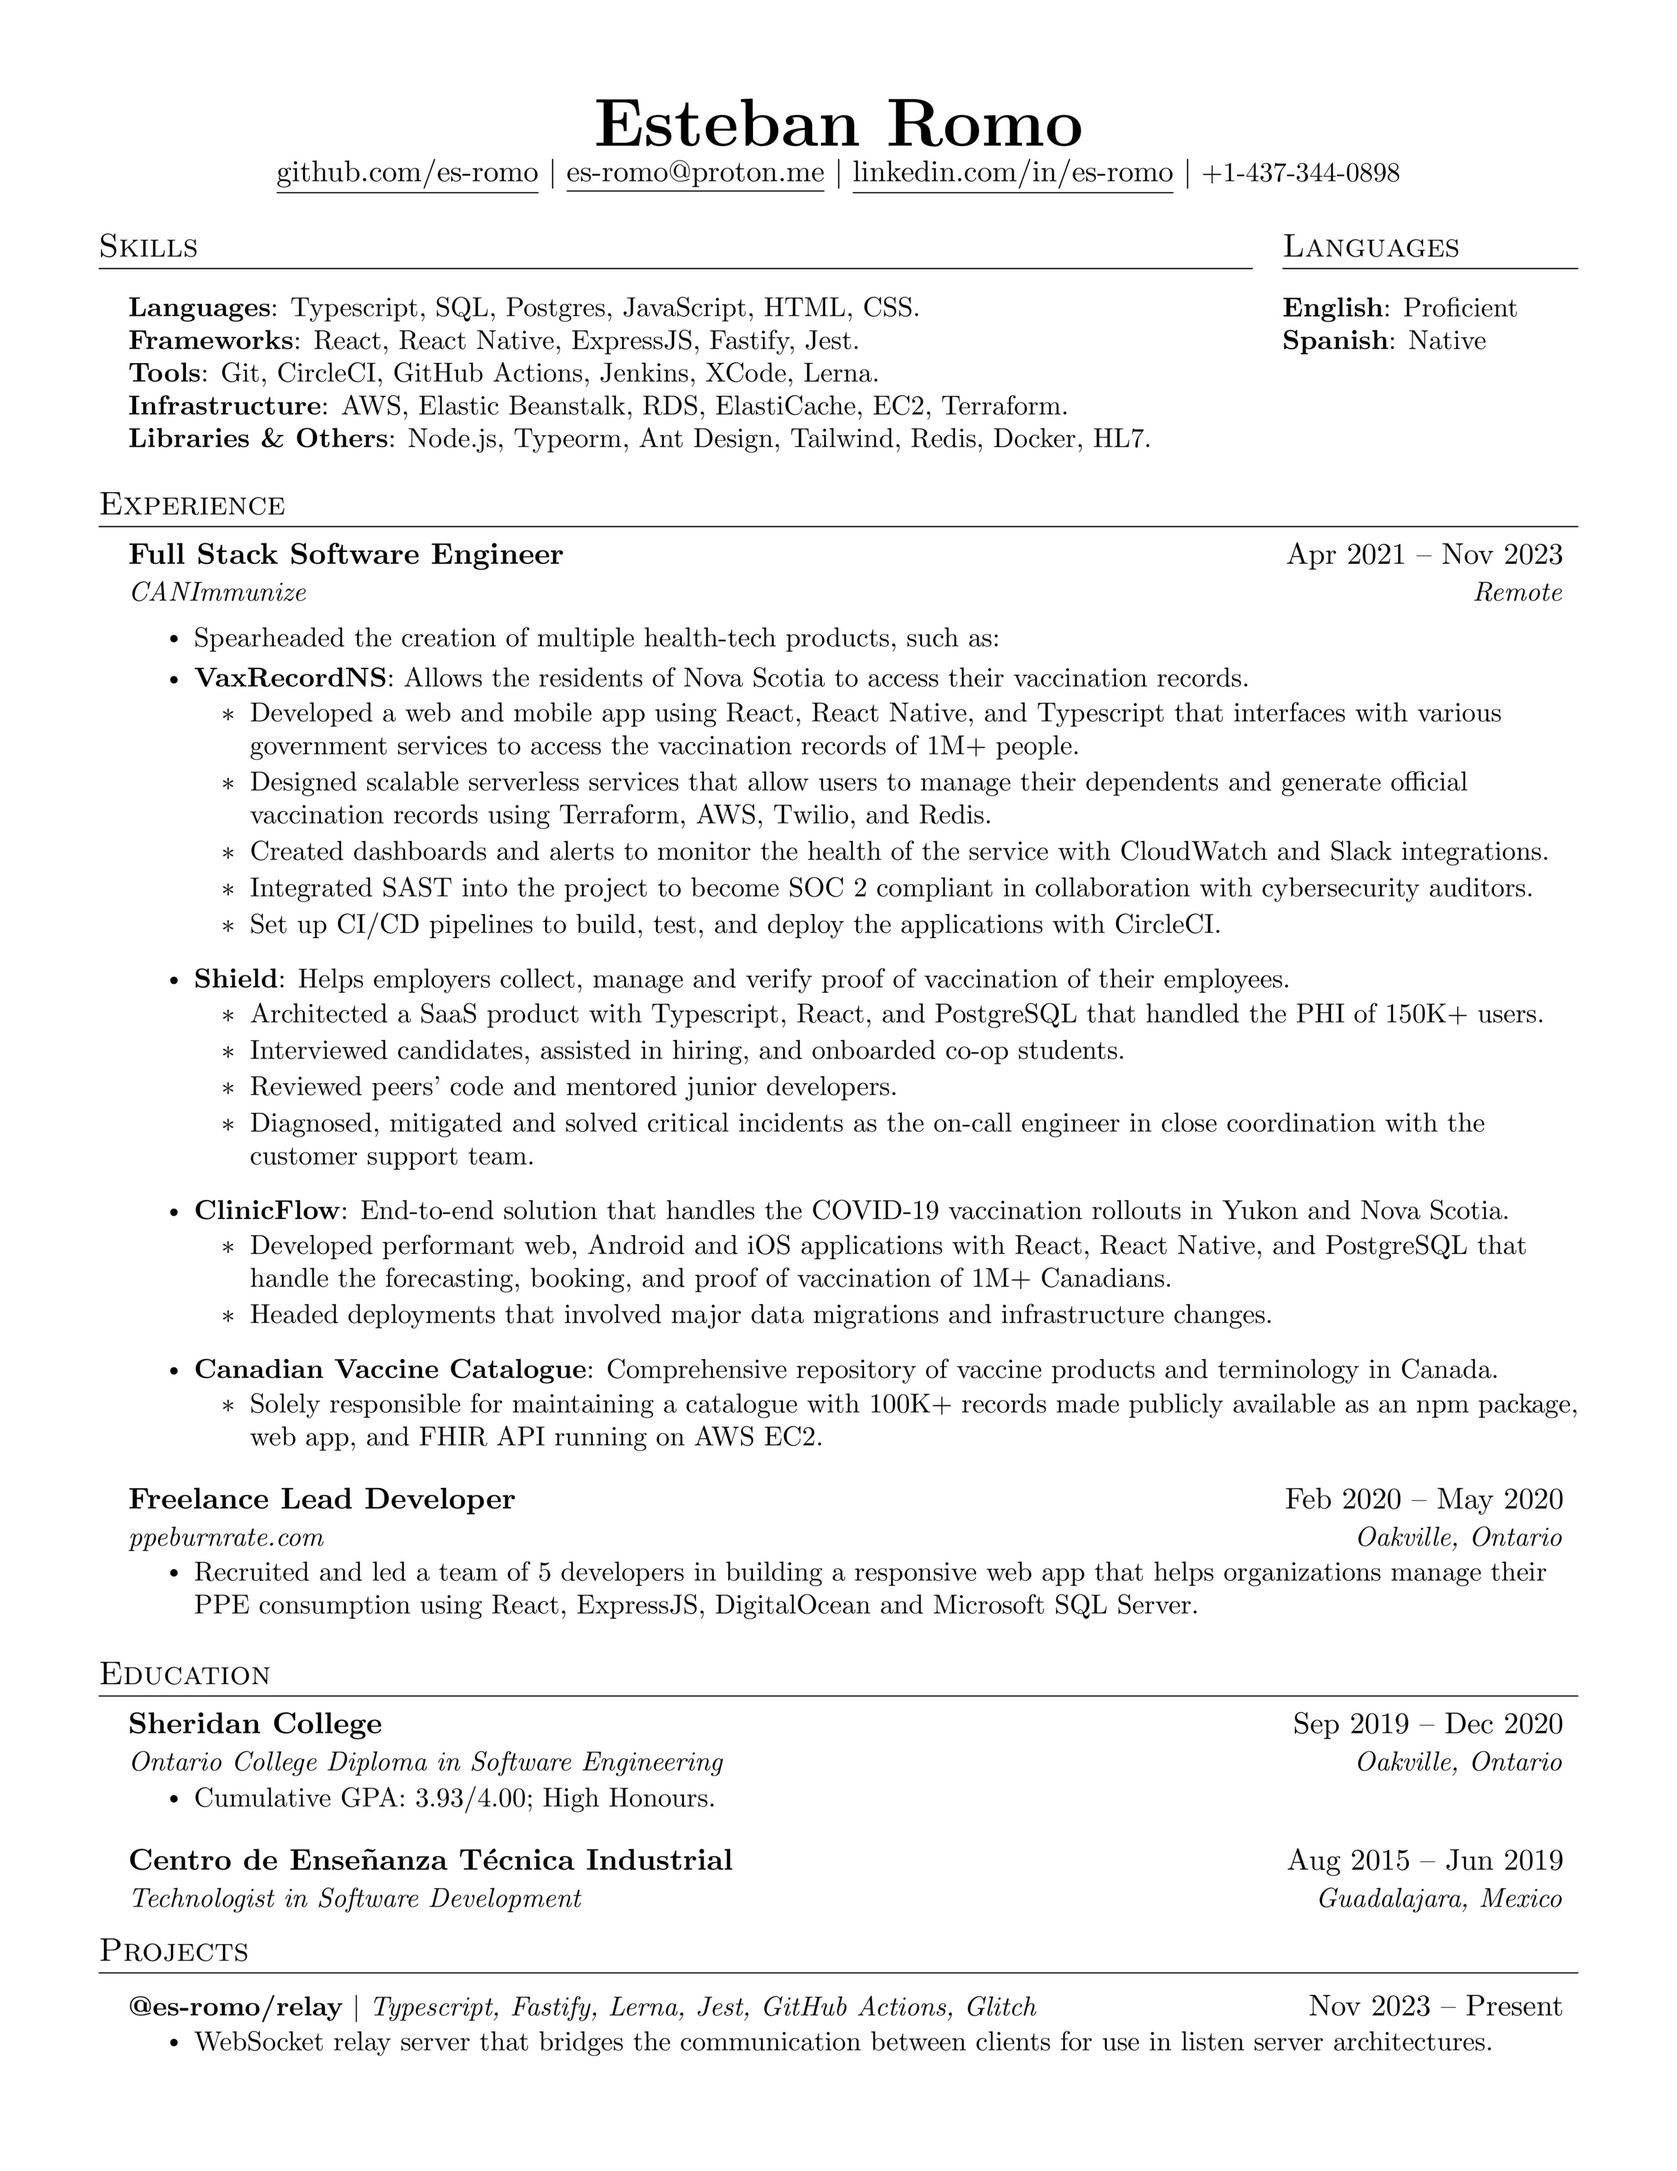
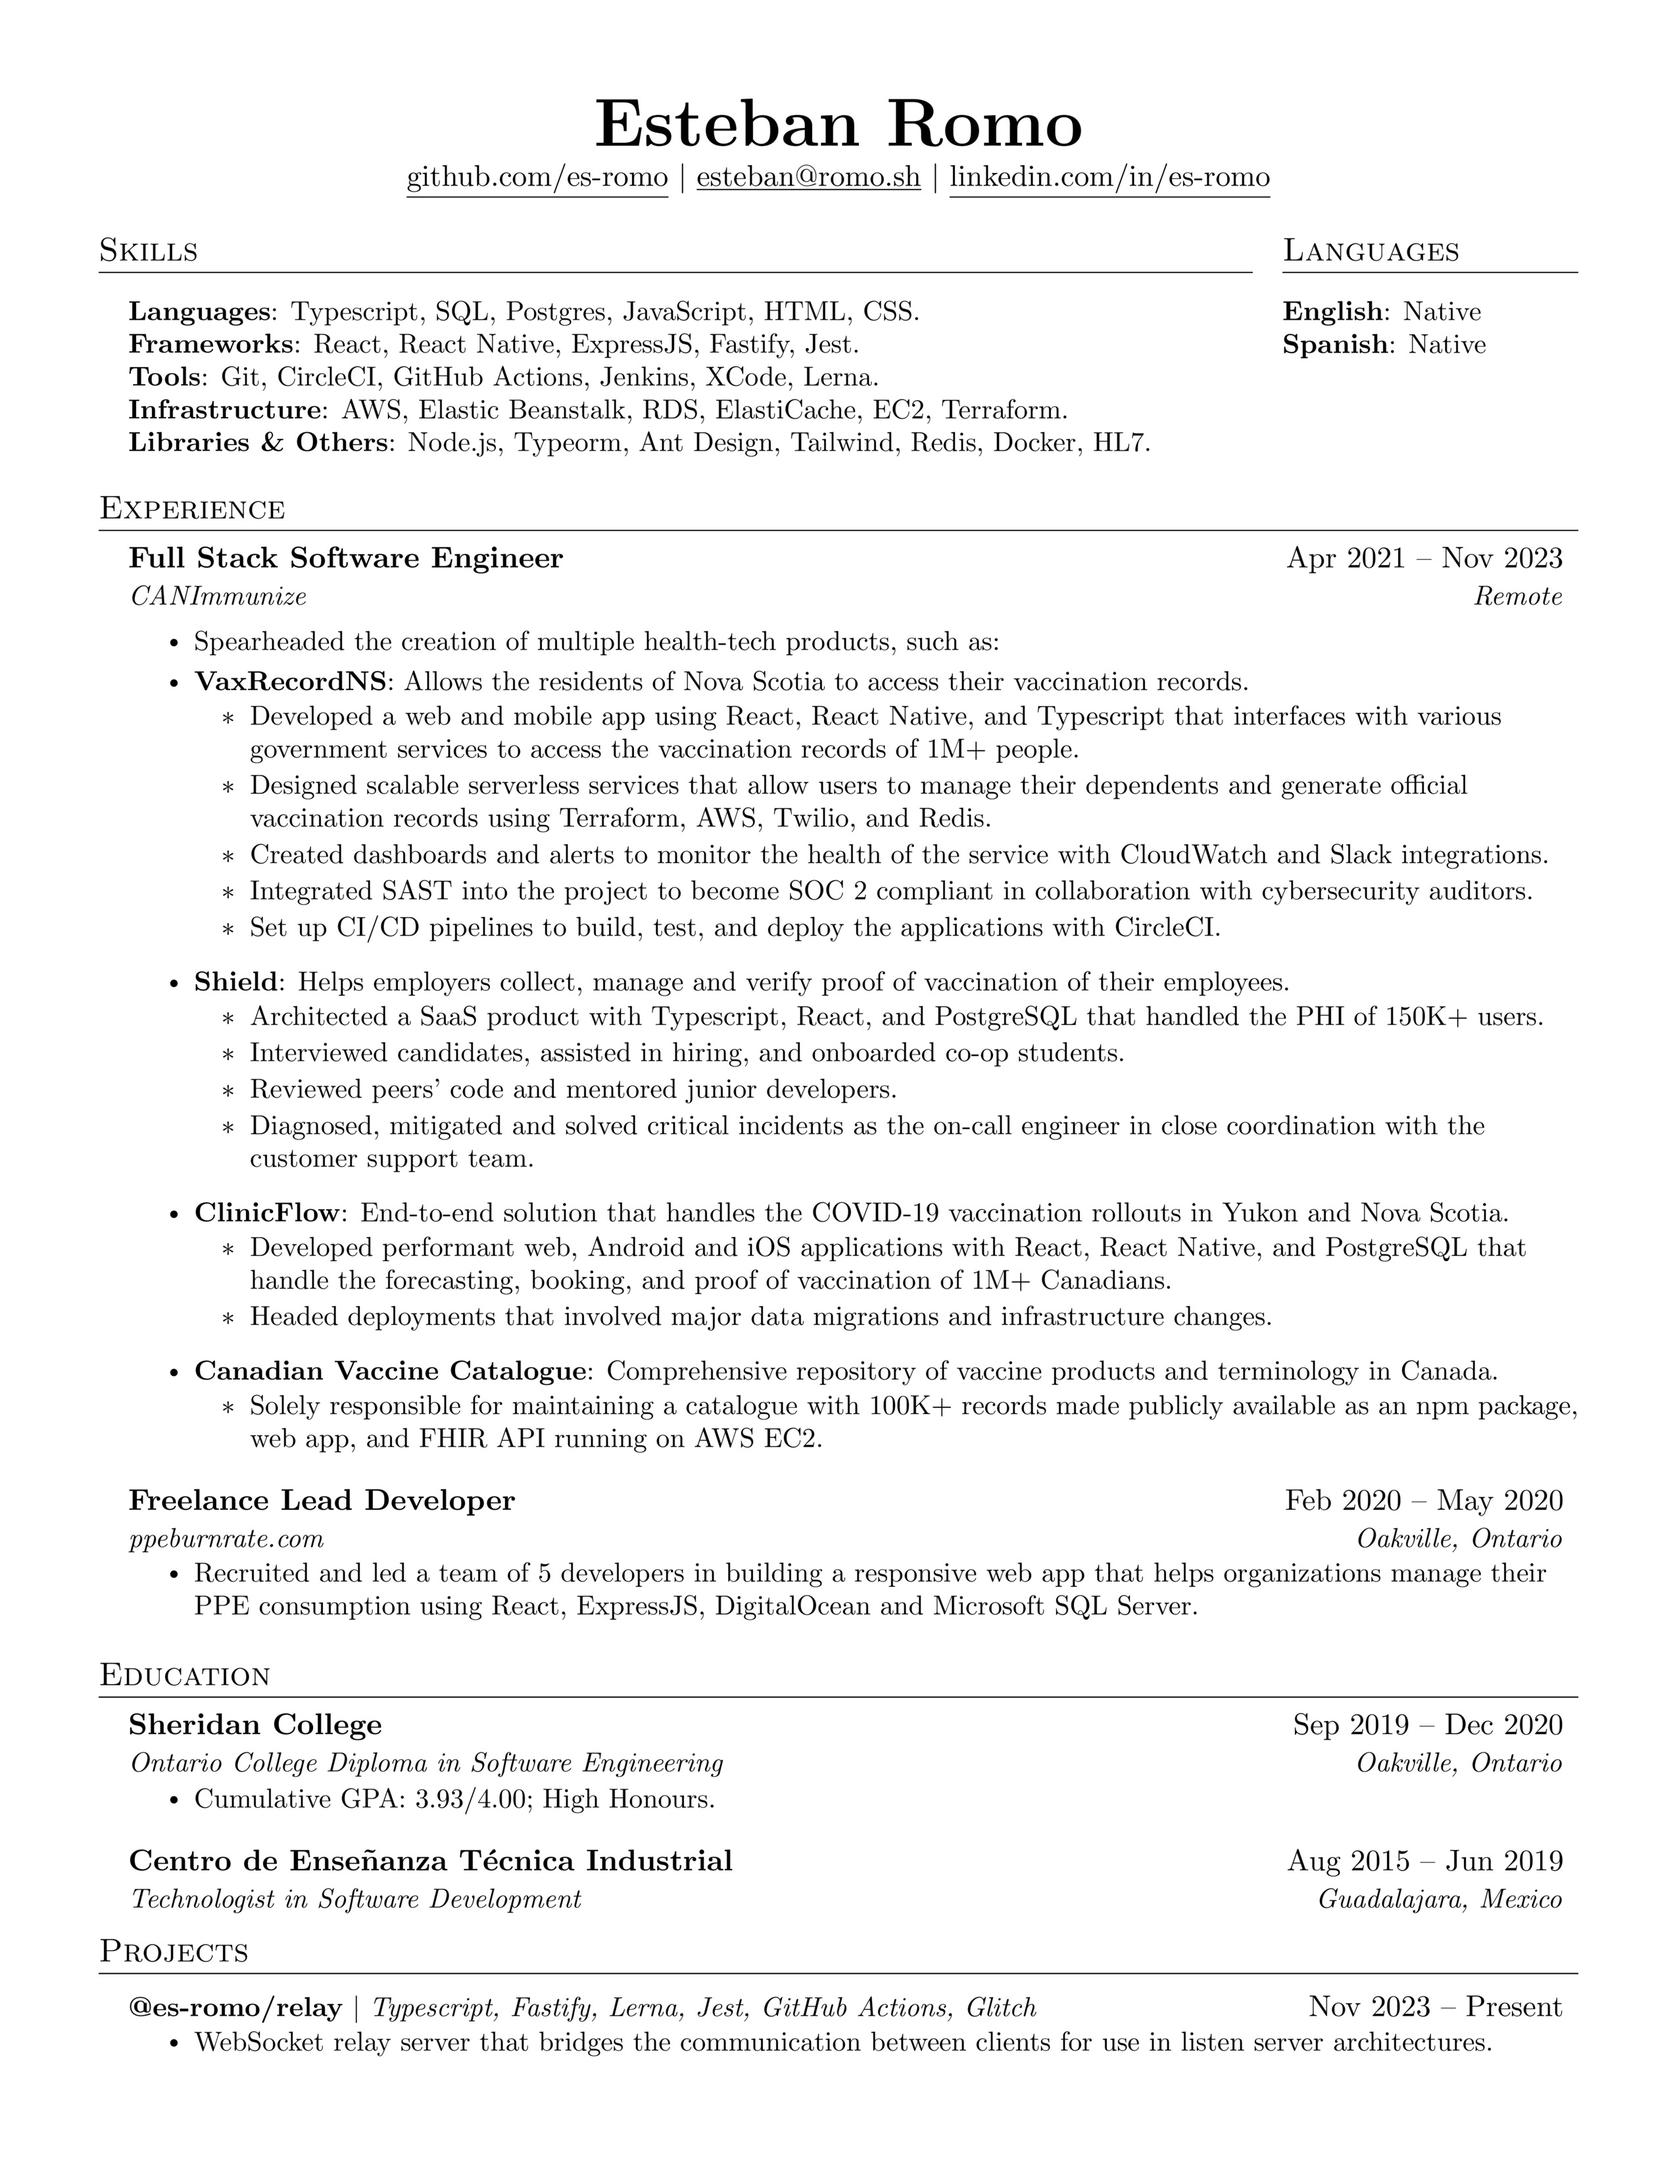
Update languages, remove phone number, change email

diff --git a/EstebanRomo_Resume.tex b/EstebanRomo_Resume.tex
@@ -117,9 +117,9 @@
 \begin{center}
     \textbf{\Huge \scshape Esteban Romo} \\ \vspace{1pt}
     \href{https://github.com/es-romo}{\underline{github.com/es-romo}} $|$ 
-    \href{mailto:es-romo@proton.me}{\underline{es-romo@proton.me}} $|$ 
-    \href{https://www.linkedin.com/in/es-romo/}{\underline{linkedin.com/in/es-romo}} $|$ 
-    \small +1-437-344-0898
+    \href{mailto:esteban@romo.sh}{\underline{esteban@romo.sh}} $|$ 
+    \href{https://www.linkedin.com/in/es-romo/}{\underline{linkedin.com/in/es-romo}}
+    % \small +1-437-344-0898
 \end{center}
 
 %-----------SKILLS-----------
@@ -142,7 +142,7 @@
   \section{Languages}
   \begin{itemize}[leftmargin=0.0in, label={}]
       \small{\item{
-      \textbf{English}{: Proficient} \\
+      \textbf{English}{: Native} \\
       \textbf{Spanish}{: Native} \\
       }}
   \end{itemize}
